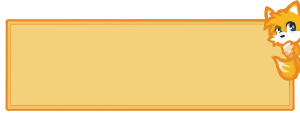
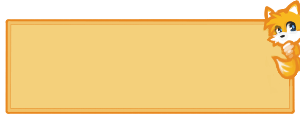
graphic glitch mod2

Changed region(s): [[0.0, 0.913, 0.99, 0.9913], [0.93, 0.6, 1.0, 0.7043]]

diff --git a/css/tales_theme.css b/css/tales_theme.css
@@ -53,8 +53,8 @@ html, body			{ margin:0; padding:0; overflow:hidden; }
 .chat_text_message	{	background-color:transparent !important;
 											border-image-source:
 				url(https://krynen.github.io/jsassist-custom-css/images/blob.png);
-											border-image-slice:77 37 10 12 fill;
-											border-width:77px 37px 10px 12px; 
+											border-image-slice:80 37 7 12 fill;
+											border-width:77px 37px 7px 12px; 
 											border-style:solid; box-sizing:border-box;
 											position:relative; z-index:0; overflow:visible; }
 .chat_text_message_inner
